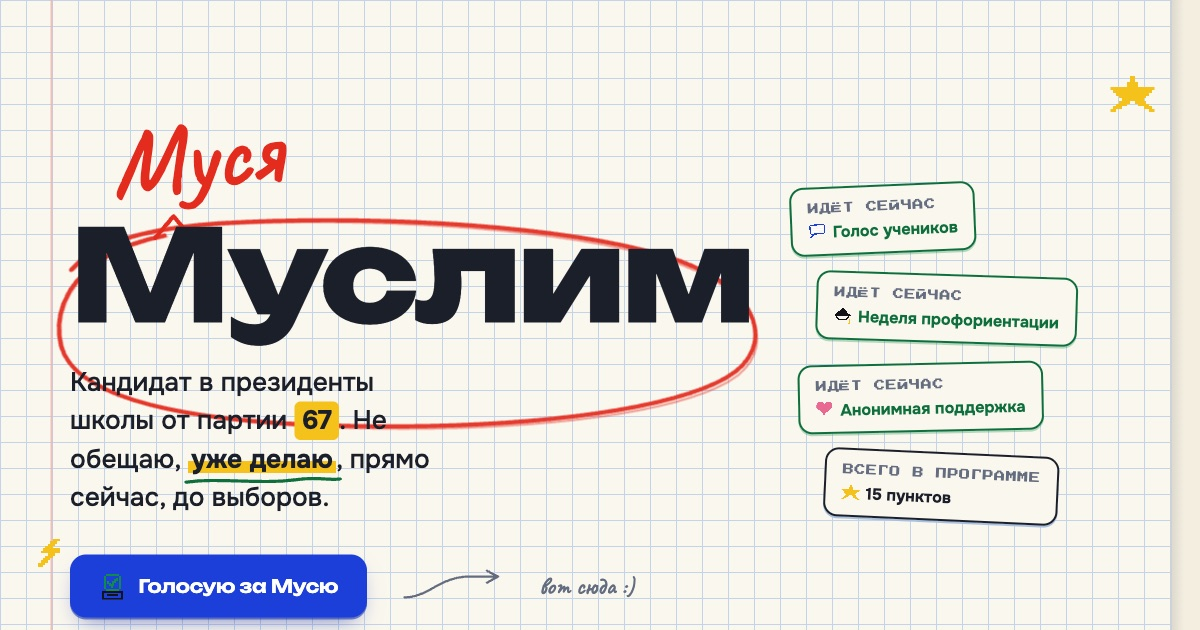
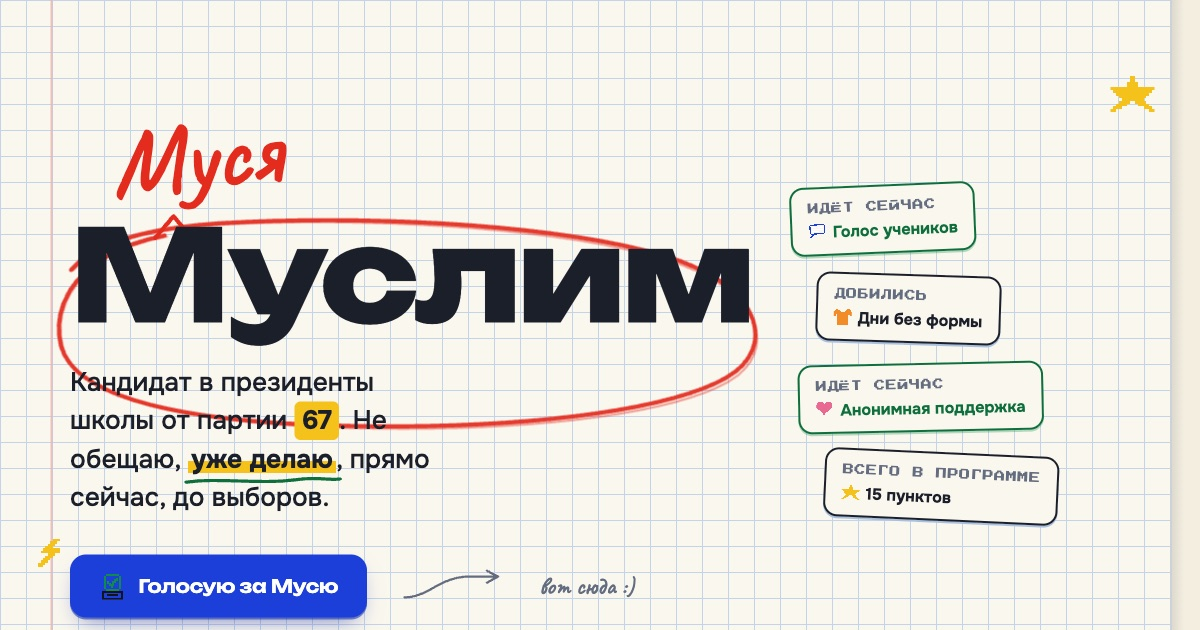
Статусы: профориентация в планы, дни без формы в «добиваюсь»
Кандидат уточнил фактическое положение дел.

Неделя профориентации не идёт сейчас, а планируется — убран статус
«идёт сейчас» и фраза «организуется прямо сейчас, в агитационный
период», которая это утверждала.

Дни без формы согласованы с администрацией, осталось назначить даты.
Это статус «добиваюсь», а не «план»: усилие уже дало результат, но
событие впереди. Пункт объединён с тематическими днями.

Расклад изменился с 4/2 на 3/3, поэтому пересчитаны все три места,
где он назван: плашка в герое, вводка к программе и сводка внизу.
Счётчики сверены с реальным числом статусов на странице.

Превью для чатов перерисовано под новые плашки.

Changed region(s): [[0.6783, 0.4222, 0.8942, 0.573]]

diff --git a/index.html b/index.html
@@ -104,9 +104,9 @@
         <span class="pix">ИДЁТ СЕЙЧАС</span>
         <img src="img/sprite-bubble.png" alt="" width="18" height="18">Голос учеников
       </div>
-      <div class="chip chip--green" style="--rot:1.8deg; margin-left:26px">
-        <span class="pix">ИДЁТ СЕЙЧАС</span>
-        <img src="img/sprite-cap.png" alt="" width="18" height="18">Неделя профориентации
+      <div class="chip chip--try" style="--rot:1.8deg; margin-left:26px">
+        <span class="pix">ДОБИЛИСЬ</span>
+        <img src="img/sprite-shirt.png" alt="" width="18" height="18">Дни без формы
       </div>
       <div class="chip chip--green" style="--rot:-1.2deg; margin-left:8px">
         <span class="pix">ИДЁТ СЕЙЧАС</span>
@@ -236,7 +236,7 @@
   <h2 class="band__head rise">Что я <span class="ring">делаю<svg viewBox="0 0 320 120" preserveAspectRatio="none" aria-hidden="true"><path class="draw" d="M 56 14 C 18 22, 4 50, 12 76 C 22 106, 96 118, 174 116 C 258 114, 312 96, 314 66 C 316 38, 268 16, 186 10 C 132 6, 84 8, 48 22"/><path class="draw ink2" d="M 56 14 C 18 22, 4 50, 12 76 C 22 106, 96 118, 174 116 C 258 114, 312 96, 314 66 C 316 38, 268 16, 186 10 C 132 6, 84 8, 48 22"/></svg></span><br>и что будет дальше</h2>
   <p class="band__intro rise" style="--d:70ms">
     Пятнадцать пунктов, и у каждого честный статус. Что-то уже запущено в агитационный
-    период. Что-то начнётся с первого дня. А два пункта это то, чего я добиваюсь: там я
+    период. Что-то начнётся с первого дня. А три пункта это то, чего я добиваюсь: там я
     обещаю усилие и открытый отчёт, а не результат. Смешивать это нечестно.
   </p>
 
@@ -263,12 +263,12 @@
         <p class="plank__num pix">02</p>
         <h3 class="plank__title">Неделя профориентации</h3>
         <p class="plank__body">
-          Приезжают представители профессий и проводят настоящие тренинги: не лекцию «кем быть», а работу руками в своей сфере. Организуется прямо сейчас, в агитационный период.
+          Приезжают представители профессий и проводят настоящие тренинги: не лекцию «кем быть», а работу руками в своей сфере.
         </p>
       </div>
-      <span class="status status--now">
-        <svg viewBox="0 0 24 24" fill="none" aria-hidden="true"><circle cx="12" cy="12" r="7" fill="currentColor"/></svg>
-        Идёт сейчас
+      <span class="status status--plan">
+        <svg viewBox="0 0 24 24" fill="none" aria-hidden="true"><circle cx="12" cy="12" r="6.6" stroke="currentColor" stroke-width="2.6"/></svg>
+        План
       </span>
     </li>
 
@@ -443,14 +443,14 @@
       <img class="plank__sprite" src="img/sprite-shirt.png" alt="" width="56" height="56">
       <div>
         <p class="plank__num pix">14</p>
-        <h3 class="plank__title">Дни без формы</h3>
+        <h3 class="plank__title">Дни без формы и тематические дни</h3>
         <p class="plank__body">
-          Несколько дней в году, когда можно прийти собой. Мелочь, которую все хотят и о которой почему-то никто не договаривается.
+          Уже согласовано с администрацией: дни, когда можно прийти собой, и дни со своей темой. Осталось назначить даты. Та самая мелочь, которую все хотят и о которой почему-то никто не договаривался.
         </p>
       </div>
-      <span class="status status--plan">
-        <svg viewBox="0 0 24 24" fill="none" aria-hidden="true"><circle cx="12" cy="12" r="6.6" stroke="currentColor" stroke-width="2.6"/></svg>
-        План
+      <span class="status status--try">
+        <svg viewBox="0 0 24 24" fill="none" aria-hidden="true"><circle cx="12" cy="12" r="6.6" stroke="currentColor" stroke-width="2.6" stroke-dasharray="3 3"/></svg>
+        Добиваюсь
       </span>
     </li>
 
@@ -536,12 +536,12 @@
   </div>
 
   <p class="tally__row rise">
-    <span class="tally__n">4</span>
+    <span class="tally__n">3</span>
     <span class="tally__t">пункта <strong class="ok">уже идут</strong>, до того, как за меня проголосовали</span>
   </p>
   <p class="tally__row rise" style="--d:80ms">
-    <span class="tally__n">2</span>
-    <span class="tally__t">пункта это то, чего <em>я добиваюсь</em>: DECA и портал возможностей. Обещаю усилие и отчёт, а не результат</span>
+    <span class="tally__n">3</span>
+    <span class="tally__t">пункта это то, чего <em>я добиваюсь</em>: дни без формы уже согласованы, DECA и портал возможностей в работе. Обещаю усилие и отчёт, а не результат</span>
   </p>
   <p class="tally__row rise" style="--d:160ms">
     <span class="tally__n">0</span>

diff --git a/style.css b/style.css
@@ -1253,3 +1253,10 @@ input[type="file"].field {
   cursor: not-allowed;
   transform: none;
 }
+
+/* плашка героя для статуса «добиваюсь» */
+.chip--try {
+  border-color: var(--red-deep);
+  color: var(--red-deep);
+  box-shadow: 0 2px 0 rgba(194,30,18,.28);
+}

diff --git a/PRODUCT.md b/PRODUCT.md
@@ -55,16 +55,19 @@ Already running during the campaign period:
 1. **Voice of students** — surveys, an idea box, an open backlog of what students ask for.
 2. **Complaints resolved immediately** — a fast, tracked route instead of problems disappearing.
 3. **Anonymous mental-health support** — a confidential channel.
-4. **Career guidance** — a week with visiting professionals giving trainings.
+
+Secured but not yet delivered — the "добиваюсь" status, where effort is promised and reported, not an outcome:
+
+4. **Days without uniform, and themed days** — the administration has already approved these; only the dates remain. This is the campaign's one concrete win to date and the proof that the method works.
+5. **DECA** — an attempt to bring DECA to Central Asia for the first time, stated by the candidate as an attempt.
+6. **A single portal of global opportunities** — prestigious ones only, explicitly not pay-to-play. Also an attempt.
 
 Planned:
 
-5. **Two weeks, one profession** — a sustained format rather than a single talk.
-6. **TEDx** — bringing a TEDx event to the school.
-7. **DECA** — an attempt to bring DECA to Central Asia for the first time. Stated by the candidate as an attempt ("постараюсь"), and the site must keep that honesty; it is not a promise of success.
-8. **A single portal of global opportunities** — prestigious ones only, explicitly not pay-to-play and not low-quality chance-based listings. Also stated as an attempt.
-9. **School radio and news.**
-10. **Days without uniform.**
+7. **Career guidance week** — visiting professionals running real trainings. NOT yet running: the candidate corrected this, it is planned.
+8. **Two weeks, one profession** — a sustained format rather than a single talk.
+9. **TEDx** — bringing a TEDx event to the school.
+10. **School radio and news.**
 11. **Business incubator / startup fair** — students build mini-projects (merch, handmade, services) and pitch them; winners receive budget from the school fund.
 12. **Podcast studio / media centre** — a school podcast where seniors discuss trends, interview teachers, and talk about teenage problems.
 13. **Secret angel (professional)** — a month in which school alumni, now university students, anonymously correspond with seniors, helping them choose a university and sharing practical advice.
